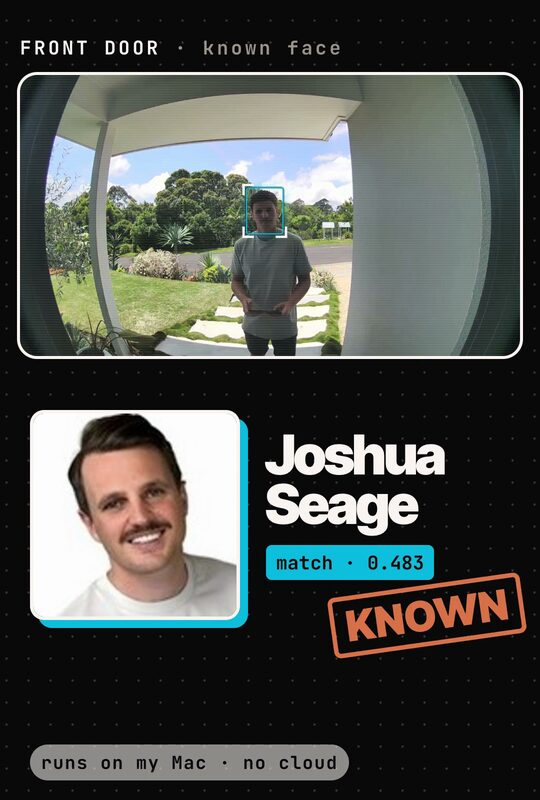
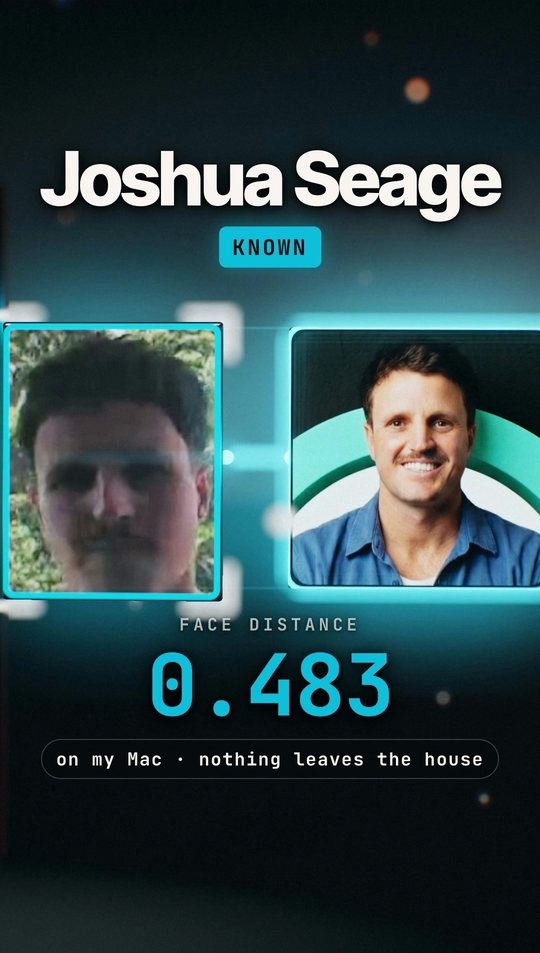
Pictures from the 3D version, with the match on the profile photo

diff --git a/README.md b/README.md
@@ -25,7 +25,7 @@ of your choosing instead.
 
 | Face found on the live view | Checked against your photos | A match |
 |---|---|---|
-| <img src="docs/face-found.jpg" width="250" alt="The doorbell's live view with a box round the face"> | <img src="docs/face-check.jpg" width="250" alt="The face compared with reference photos, distance 0.483"> | <img src="docs/match.jpg" width="250" alt="The match card: known face, match 0.483"> |
+| <img src="docs/face-found.jpg" width="250" alt="The doorbell's live view with a box round the face"> | <img src="docs/face-check.jpg" width="250" alt="The face compared with reference photos one at a time, each with a distance score"> | <img src="docs/match.jpg" width="250" alt="The match: a known face, distance 0.483"> |
 
 Motion helps too: when someone walks up, it already starts looking, so when they press the button
 it often knows who they are and can answer as soon as the doorbell is awake. Motion never talks on
